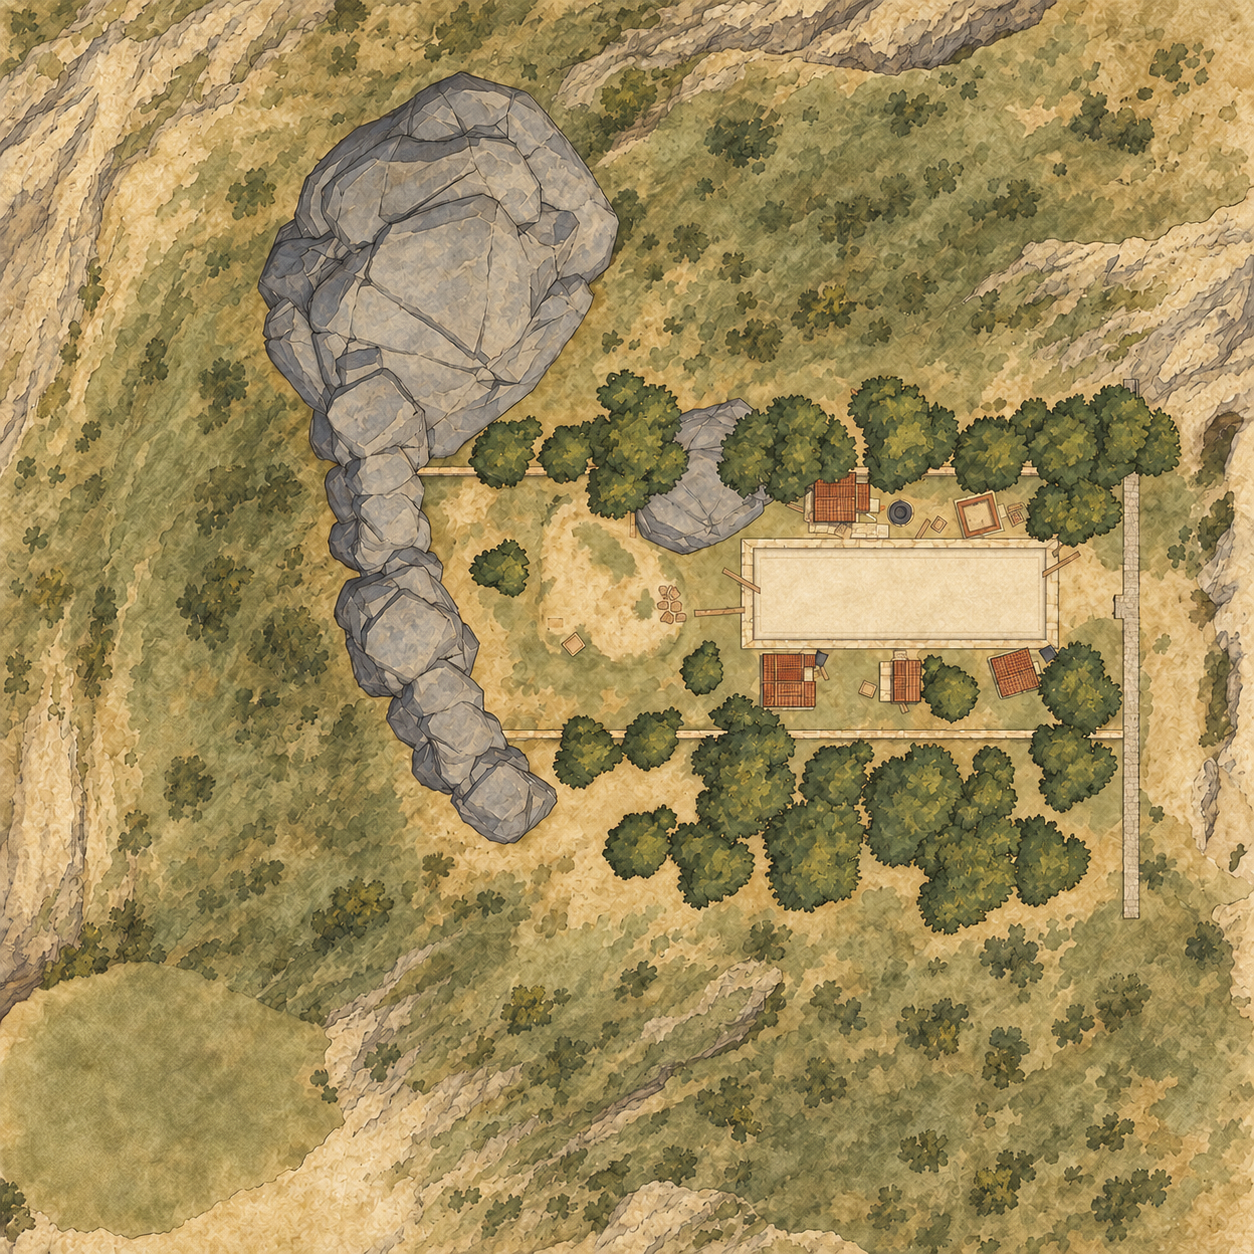
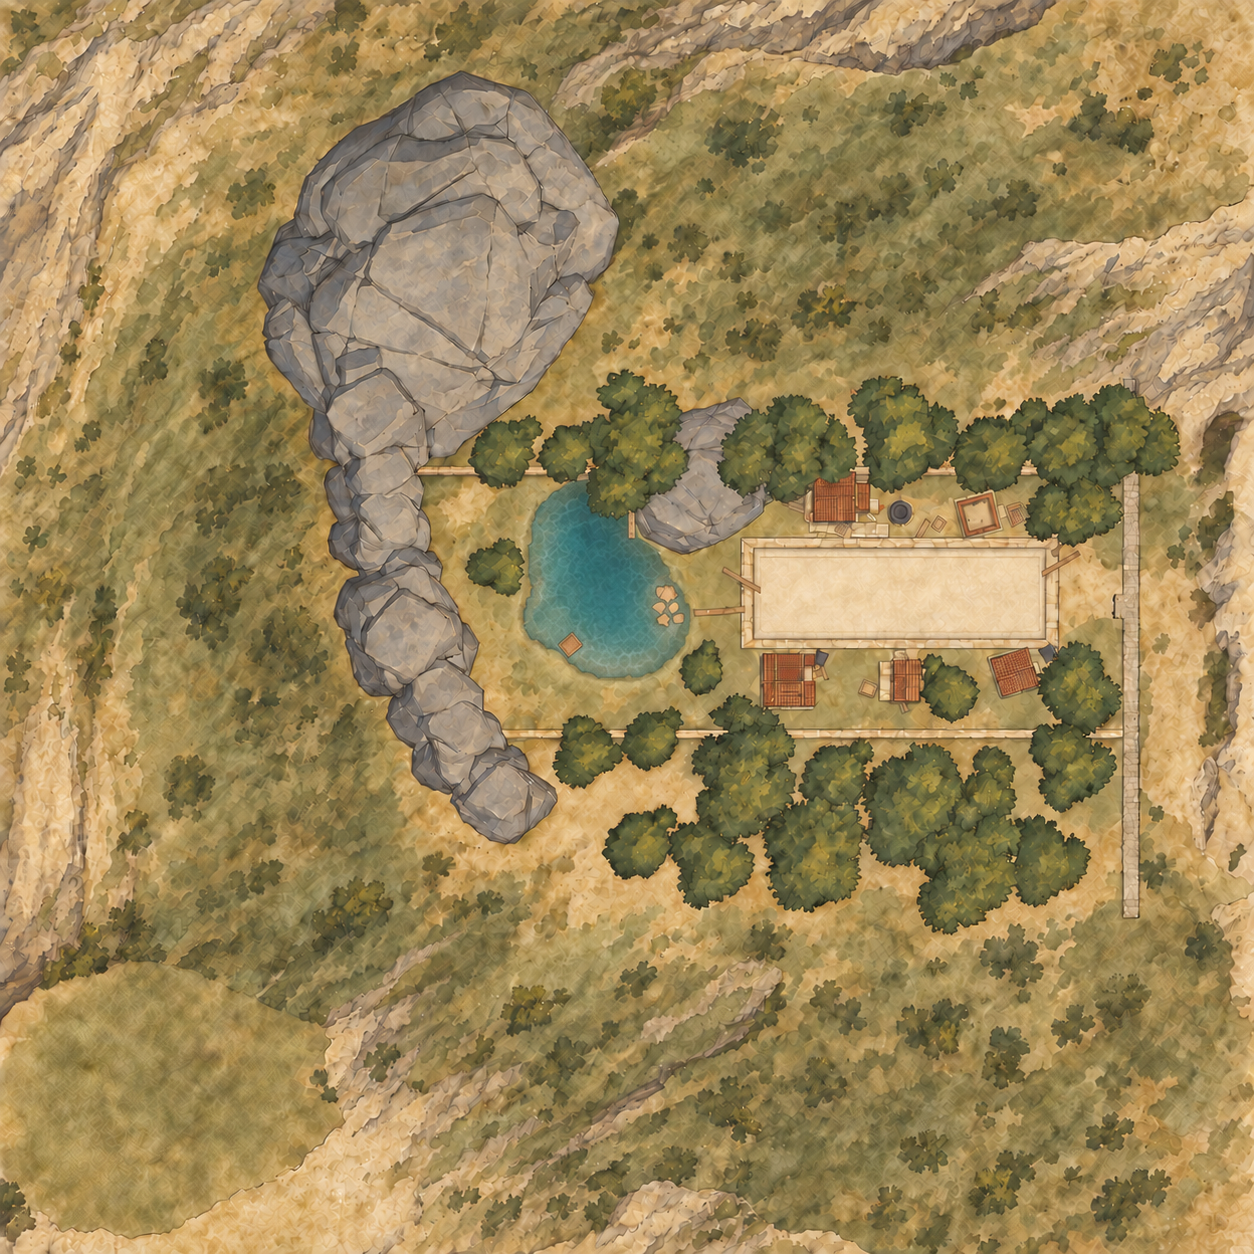
fix: restore the elevated lake on the Gate 4 map

diff --git a/navigation-mod/README.md b/navigation-mod/README.md
@@ -46,7 +46,7 @@ Opening the map frees the mouse but **does not pause the game**. M is a separate
 
 **The plugin ZIP includes Eastern Town, Island and Rome maps.** Artwork, overlays and map metadata install together with the plugin.
 
-Extract the complete ZIP into the game folder, retaining `BepInEx/plugins/OldMarket.Navigation/maps/`, and restart the game. Eastern Town currently covers the central town and four central-market unlock states, showing cleared market clutter; its outer terrain is not yet bundled. Island is a static surface overview; it does not switch through all market, farm, greenhouse or underground expansions. Rome switches to the local player’s current region after travelling through a gate, caravan or mine entrance. Hatched areas mark pending expansions and clear when their unlock is synchronized. Gate symbols change from a lock to an open door. Shops and facilities appear or move with their unlock state. The mine has two additional stages controlled from the main town. These are surface-area indicators, not a reconstruction of every intermediate building model. Maps do not automatically redraw player placements.
+Extract the complete ZIP into the game folder, retaining `BepInEx/plugins/OldMarket.Navigation/maps/`, and restart the game. Eastern Town currently covers the central town and four central-market unlock states, showing cleared market clutter; its outer terrain is not yet bundled. Island is a static surface overview; it does not switch through all market, farm, greenhouse or underground expansions. Rome switches to the local player’s current region after travelling through a gate, caravan or mine entrance. Hatched areas mark pending expansions and clear when their unlock is synchronized. Gate symbols change from a lock to an open door. Shops and facilities appear or move with their unlock state. The mine has two additional stages controlled from the main town. These are surface-area indicators, not a reconstruction of every intermediate building model. Maps do not automatically redraw player placements. Gate 4 now shows the lake west of its central terrace; the corrected shoreline still needs in-game alignment confirmation.
 
 Your markers are personal and kept separately for each save and area. They are not shared with other players. When joining someone else's game, markers last for that connection by default. To keep them between visits, use a different `Markers.RemoteProfile` name for each host's save. Copying or recreating a save folder may make your old markers appear missing. Your selected target is not remembered after restarting.
 
@@ -124,7 +124,7 @@ Close the game and back up the plugin before replacing its DLL and bundled maps.
 
 **插件 ZIP 已包含东方小镇、海岛与罗马地图。**底图、覆盖层和地图元数据会随插件一起安装。
 
-将整个 ZIP 解压到游戏目录，保留 `BepInEx/plugins/OldMarket.Navigation/maps/`，再重启游戏。东方小镇目前覆盖镇区及中央市场四种解锁状态，可反映市场垃圾清理，外围地形尚未打包；海岛是静态地表概览，不随市场、农场、温室或地下扩建的全部状态切换。罗马会在穿过大门、乘坐商队或进入矿洞后，切换到本地玩家所在区域的地图。斜线阴影表示待解锁扩建范围，同步解锁后消失；大门图标由锁变为开放入口，店铺和设施图标随启停状态出现或移动。矿洞另含由主城控制的两个扩建阶段。这些是地表范围提示，不逐一重建各阶段建筑模型；地图不会自动重画玩家摆放物。
+将整个 ZIP 解压到游戏目录，保留 `BepInEx/plugins/OldMarket.Navigation/maps/`，再重启游戏。东方小镇目前覆盖镇区及中央市场四种解锁状态，可反映市场垃圾清理，外围地形尚未打包；海岛是静态地表概览，不随市场、农场、温室或地下扩建的全部状态切换。罗马会在穿过大门、乘坐商队或进入矿洞后，切换到本地玩家所在区域的地图。斜线阴影表示待解锁扩建范围，同步解锁后消失；大门图标由锁变为开放入口，店铺和设施图标随启停状态出现或移动。矿洞另含由主城控制的两个扩建阶段。这些是地表范围提示，不逐一重建各阶段建筑模型；地图不会自动重画玩家摆放物。大门4底图已补回中央长平台西侧的湖泊；修正后的湖岸仍需实机对齐确认。
 
 个人标记按存档和区域分别保存，不会分享给其他玩家。加入好友房间时，默认只保留本次连接中的标记。如果想下次继续使用，请为每位好友的存档设置不同的 `Markers.RemoteProfile` 名称。复制或重建存档文件夹后，旧标记可能暂时找不到。当前选中的目标不会在重启后保留。
 

diff --git a/navigation-mod/maps/rome-audit.md b/navigation-mod/maps/rome-audit.md
@@ -124,3 +124,13 @@ No game installation or save was modified. In-game travel, unlock sequencing, ar
 Validation for source `db03d32` (2026-09-15): version validation and the full SDK build passed; 64 CI tooling tests, 1291 navigation checks and 659 Navigation contract checks passed. The Navigation real-reference build matched the SDK build in symbolic IL and embedded resources after verifying 15 dependency hashes. The repository-wide real-reference command stopped earlier at Stack All's SDK/real-build differences; Navigation was then verified independently without bypassing any hashes.
 
 源码 `db03d32`（2026-09-15）的版本验证与全仓 SDK 构建通过，64 项 CI 工具测试、1291 项导航检查和 659 项 Navigation 契约检查通过。Navigation 的 15 个真实依赖哈希已核对，真实引用与 SDK 构建的符号 IL/内嵌资源一致。全仓真实引用命令先在 Stack All 的 SDK/真实构建差异处停止，随后独立验证 Navigation，未绕过任何哈希检查。
+
+## Gate 4 water correction — 2026-09-18
+
+The previous local reference skipped water-material meshes and classified water only below a fixed sea-level threshold. Gate 4 contains an active elevated lake at Y ≈ 69.66, so that reference incorrectly showed dry terrain. The replacement reference rasterizes its actual 50 × 50 water mesh footprint, clips it against terrain elevations, and preserves overlying rocks, trees and structures. The visible lake is west of the long central terrace; the southwestern circular terrain patch is not this lake. The published asset is a new Image Gen illustration, not the raw render.
+
+大门4旧参考图跳过水材质网格，仅以固定海平面识别水域，漏掉了 Y 约 69.66 的高处湖面。新参考图对真实 50 × 50 水面网格按地形高度裁剪，保留上方岩石、树木与结构。可见湖泊位于中央长平台西侧，西南圆形地块并非该湖。公开贴图为重新生成的 Image Gen 插画，原始渲染不公开。
+
+World bounds remain X [1619,1924], Z [-1316,-1011], north +Z. Return POI and region metadata are unchanged. The new artwork has been visually compared with the corrected reference; in-game shoreline alignment remains pending.
+
+世界边界仍为 X [1619,1924]、Z [-1316,-1011]，北向 +Z；返回点和区域元数据不变。新图已与修正参考图作视觉比对，实机湖岸对齐待确认。

diff --git a/releases/validation.md b/releases/validation.md
@@ -153,3 +153,17 @@ Source `2a7ae08` adds a localized caption above native controls, reusing the gam
 Validation: version/immutable-SDK validation, all eight SDK builds and real-reference comparisons, 67 CI tooling tests, 89,760 Stack All logic checks, 13-language localization and 84 read-only game contracts passed. These checks do not execute Unity.
 
 验证：版本及 SDK 不可变性、八种 SDK 构建与真实引用比对、67 项 CI 工具测试、89,760 项 Stack All 逻辑检查、13 种语言及 84 项只读游戏契约全部通过；未执行 Unity 实机显示。
+
+## Local follow-up — 2026-09-18
+
+Stack All build `d4e033d`: local testing of the latest hold guidance/native font change was reported complete. This confirms that local UI follow-up only; it does not establish a new save/reload or host/client scenario matrix.
+
+Stack All 构建 `d4e033d`：最新长按说明及原生字体改动获本地测试完成反馈。本次确认限于该 UI 后续改动，不扩展为新的存档重载或房主/客人场景验收。
+
+Navigation Gate 4: corrected the omitted elevated lake after reviewing the real water mesh and terrain elevation. The regenerated illustrated texture preserves metadata/bounds; in-game shoreline confirmation remains pending. Navigation remains 0.2.0 / SDK 2.1.6/r7, target version **UNASSIGNED**.
+
+Navigation 大门4：复核真实水面网格与地形高度后补回高处湖泊，重新生成插画贴图；元数据和边界不变，实机湖岸确认待完成。保持 0.2.0 / SDK 2.1.6/r7，目标版本 **UNASSIGNED**。
+
+Gate 4 validation: version/immutable-SDK checks, 67 CI tooling tests and all eight SDK builds/package allowlists passed. The new PNG was visually compared with the water-corrected reference; its blue water pixels stay within the reviewed lake region. No runtime code/API changed, so Navigation retains SDK r7. No additional game execution or multiplayer test was performed.
+
+大门4验证：版本及 SDK 不可变性、67 项 CI 工具测试、八种 SDK 构建与打包白名单检查通过。新 PNG 已对照修正参考图检查，蓝色水域仅位于已复核湖区。无运行时代码/API 改动，Navigation 保持 SDK r7；未新增实机或联机测试。

diff --git a/navigation-mod/CHANGELOG.md b/navigation-mod/CHANGELOG.md
@@ -4,6 +4,8 @@
 
 ### Unreleased
 
+- Regenerate Gate 4 artwork with its missing elevated lake, using a local geometry reference that clips the actual water mesh against terrain heights instead of assuming sea level. Preserve map bounds, return POI, version 0.2.0 and SDK 2.1.6/r7; refresh the packaged texture hash. Corrected shoreline alignment awaits in-game confirmation.
+
 - Complete localization of built-in map titles and functional POI labels across all 13 game languages. Add optional NameTextKey metadata, preserve custom names, update labels immediately on language changes, and support Macau Traditional Chinese aliases. Keep native place translations, version 0.2.0 and SDK 2.1.6/r7; fonts and long labels still await in-game acceptance.
 
 - Refresh bilingual map coverage, package and icon inventories, Rome unlock behavior and source-specific validation documentation. Make the unbundled Eastern Town outer terrain explicit; preserve historical test evidence and version/SDK pins.
@@ -106,6 +108,8 @@ Experimental initial build; not installed or verified in game.
 ## 中文
 
 ### 未发布
+
+- 重新生成大门4底图，补回遗漏的高处湖泊；本地参考图按真实水面网格与地形高度裁剪，不再假定海平面。地图边界、返回点、版本 0.2.0 和 SDK 2.1.6/r7 不变，更新打包贴图哈希。修正后的湖岸对齐仍待实机确认。
 
 - 补齐游戏全部 13 种语言的内置地图标题及功能 POI 标签。增加可选 NameTextKey 元数据，保留自定义名称，切换语言即时更新，补充澳门繁中别名。保留原生地点译文、0.2.0 版本与 SDK 2.1.6/r7；字体及长标签仍待实机验收。
 

diff --git a/navigation-mod/maps/rome-image-prompts.md b/navigation-mod/maps/rome-image-prompts.md
@@ -21,3 +21,11 @@ Use case: style-transfer. Asset: calibrated orthographic game navigation map. Re
 ## Gate 4 correction
 
 Precise-object-edit. Image 1 is the map to correct, image 2 is the exact geometry reference. Change ONLY the large elongated rectangle near the center-right: it is a flat pale limestone top surface/terrace, as shown in reference image 2, not a pitched red tiled roof. Remove its invented roof ridge and red tile pattern; restore the flat warm cream rectangle and its thin stepped edge. Keep its exact footprint, every other object and all terrain unchanged. Strict overhead map, no text.
+
+## Gate 4 elevated lake correction — 2026-09-18
+
+Built-in Image Gen, precise-object-edit. Input 1: existing Gate 4 artwork (edit target). Input 2: corrected local orthographic geometry with terrain-clipped water (geographic reference). The reference and raw scene evidence remain local.
+
+Correct only the omitted lake west of the long cream terrace, matching the cyan region in the corrected geometry reference (approximately x42–55%, y38–53%). Preserve its irregular shoreline, stones, wooden square, overlapping rocks/trees, all other terrain, square framing, north-up orientation and 305 × 305 world coverage. Render blue-teal water in the existing ink/watercolor Mediterranean style, no labels. Do not add water to the southwestern circular terrain patch. Preserve the flat terrace, not a roof.
+
+Cleanup pass: remove the newly invented horizontal tan rectangle at approximately x44.1%, y49.7%, replacing it with water; preserve the original diagonal square below/right at x45.5%, y51.5%. Keep the lake boundary and all other features unchanged.
